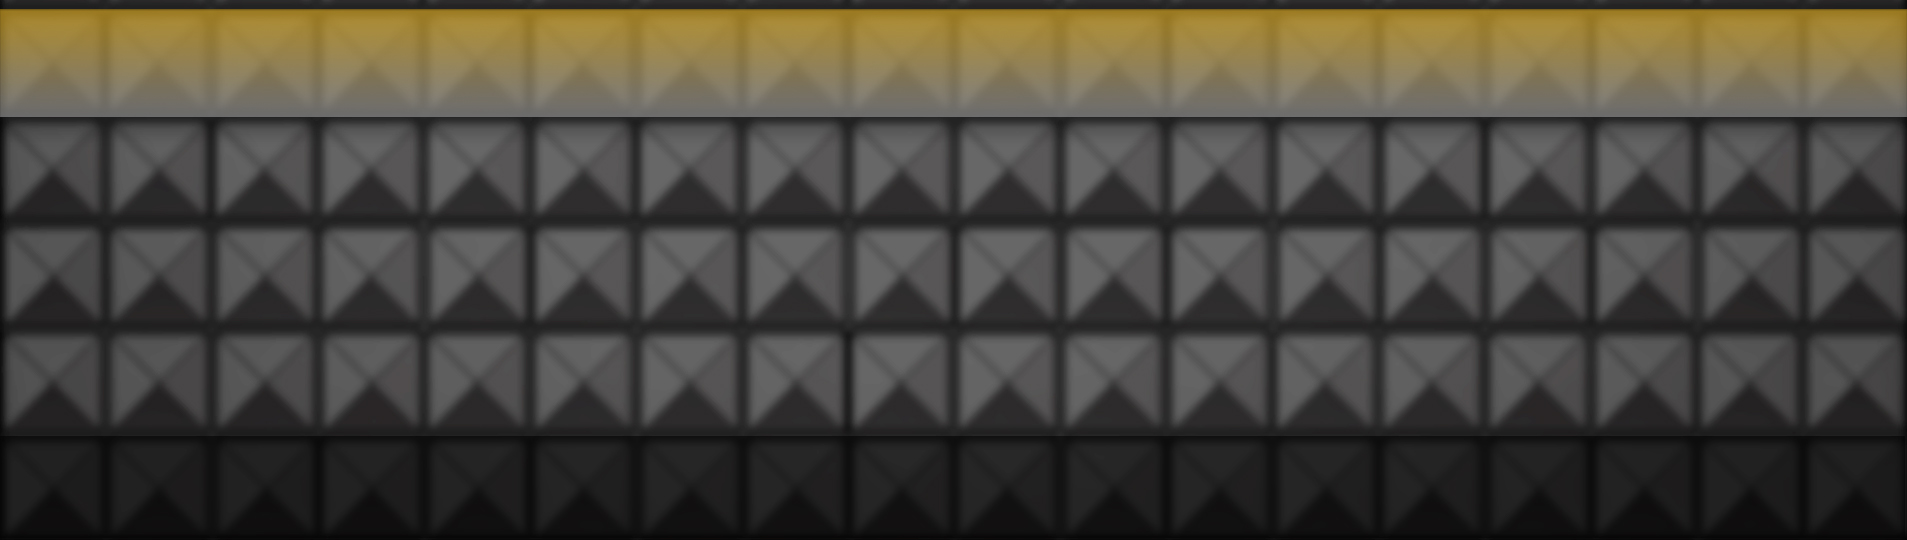
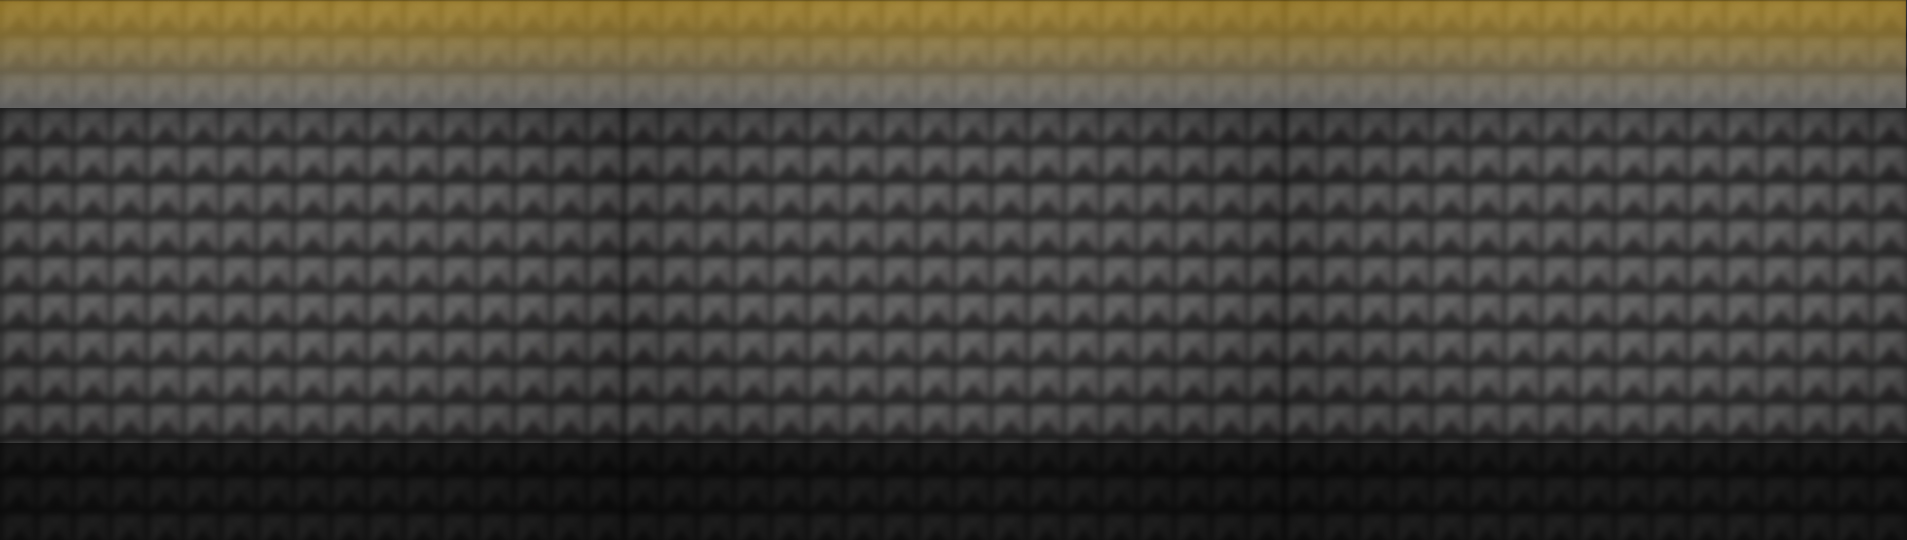
footer hecho!

diff --git a/src/main/webapp/app/layouts/footer/footer.scss b/src/main/webapp/app/layouts/footer/footer.scss
@@ -1,6 +1,6 @@
 .footer{
-    background-image: url('../../../content/images/fondo/fondoFooter.jpg');
-    background-size: 50%;
+    background: url('../../../content/images/fondo/fondoFooter.jpg') no-repeat;
+    background-size: 100% 100%;
     padding-top: 4em;
 }
 
@@ -21,13 +21,20 @@
 }
 
 .logo_stucom img{
-    max-width: 73%;
+    max-width: 50%;
 }
 
+.logo_stucom img:hover{
+    content: url('../../../content/images/logo/stucom_logo.png');
+}
+
+.__footer{
+    padding-bottom: 2em;
+}
 
 .footer_links{
     display: flex;
-    background-color: rgba(211,206,206,0.22);
+    background-color: rgba(130, 122, 122, 0.22);
     border-radius: 12px;
     text-shadow: -1px -1px 0px #0e0d0d, 1px 1px 1px #101010, -1px 1px 1px #080808, 2px -1px #151414;
     font-weight: 600;
@@ -35,6 +42,7 @@
     align-items: center;
     height: auto;
     text-decoration: none;
+    padding-bottom: 1em;
 }
 
 .footer_links a {
@@ -67,9 +75,7 @@
 
 .socials{
     display: flex;
-    color: white;
     flex-wrap: wrap;
-    margin: 0 auto;
     justify-content: center;
 }
 .socials span{
@@ -77,15 +83,31 @@
     text-align: center;
 }
 
-.socials a {
-    color: black;
-    background: #dea300;
-    font-size: 1.2em;
-    margin: 1em;
-    text-align: center;
-    width: 9%;
-    height: 24%;
+.socials a{
+    width: 25%;
+    display: flex;
+    justify-content: center;
+    align-items: center;
+    padding-bottom: 1.2em;
 }
+
+
+
+.socials a:nth-child(2) img{max-width: 55%;}
+.socials a:nth-child(2) img:hover{content: url('../../../content/images/logo/facebook_logo.png');}
+
+.socials a:nth-child(3) img{max-width: 40%;}
+.socials a:nth-child(3) img:hover{content: url('../../../content/images/logo/instagram_logo.png');}
+
+.socials a:nth-child(4) img{max-width: 38%;}
+.socials a:nth-child(4) img:hover{content: url('../../../content/images/logo/googleplus_logo.png');}
+
+
+.socials a:last-child img{max-width: 38%;}
+.socials a:last-child img:hover{content: url('../../../content/images/logo/twitter_logo.png');}
+
+
+
 
 .socials a:first-child{
     margin-left: 4em;

diff --git a/src/main/webapp/app/layouts/footer/footer.component.html b/src/main/webapp/app/layouts/footer/footer.component.html
@@ -2,7 +2,7 @@
    <div class="row __footer">
        <div class="logo_stucom col-md-3">
            <span>Con el soporte de:</span>
-           <a href="https://www.stucom.com"><img src="../../../content/images/logo/stucom_logo.png" alt=""></a>
+           <a href="https://www.stucom.com" target="_blank"><img src="../../../content/images/logo/stucom_logoyellow.png" alt=""></a>
        </div>
 
        <div class="col-6 footer_links">
@@ -15,10 +15,11 @@
 
        <div class="col-3 socials">
            <span class="text-white">Siguenos en:</span>
-           <a href="#"><i class="fa fa-facebook"></i></a>
-           <a href="#"><i class="fa fa-google-plus"></i></a>
-           <a href="#"><i class="fa fa-instagram"></i></a>
-           <a href="#"><i class="fa fa-twitter"></i></a>
+           <a href="https://www.facebook.com" target="_blank"><img src="../../../content/images/logo/facebook_logoyellow.png" alt=""></a>
+           <a href="https://instagram.com" target="_blank"><img src="../../../content/images/logo/instagram_logoyellow.png" alt=""></a>
+           <a href="https://plus.google.com" target="_blank"><img src="../../../content/images/logo/googleplus_logoyellow.png" alt=""></a>
+           <a href="https://twitter.com" target="_blank"><img src="../../../content/images/logo/twitter_logoyellow.png" alt=""></a>
+
        </div>
    </div>
     <span class="copy_right">RockTionary © 2018 DAW2 STUCOM</span>
